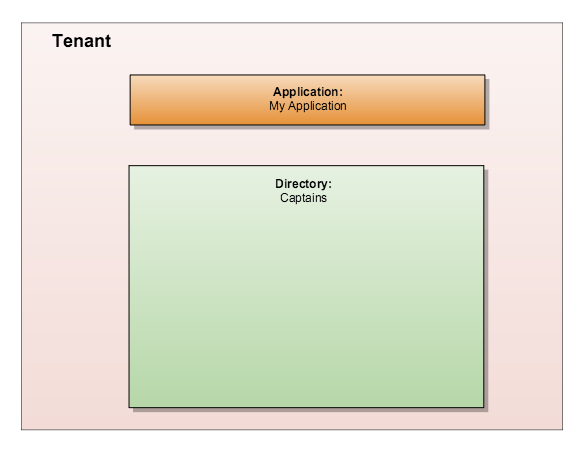
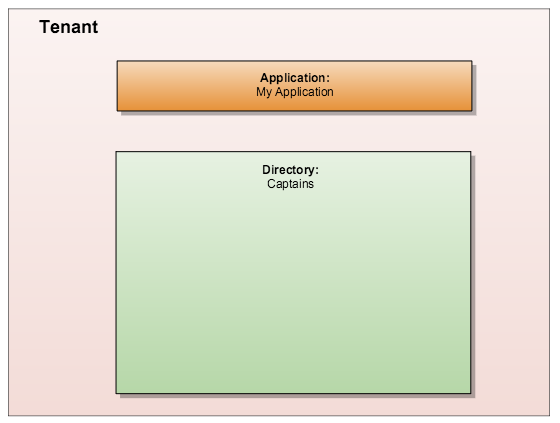
Resized images, also added CSS to add light grey border around all images

Changed region(s): [[0.0, 0.0, 1.0, 1.0], [0.1821, 0.1229, 0.85, 0.3073]]

diff --git a/source/_static/theme_overrides.css b/source/_static/theme_overrides.css
@@ -28,3 +28,7 @@ div#langpicker a {
 .rst-footer-buttons {
     display:none;
 }
+
+img {
+   border:1px solid #D6D2D1;
+}

diff --git a/source/multitenancy.rst b/source/multitenancy.rst
@@ -29,22 +29,6 @@ Tenants are organizations of people who use your application in some shared way.
 
 If your application is offering (1) shared software and hardware infrastructure to (2) client organizations, then you have a multi-tenant application! Now, for privacy and security purposes, it's very important that your application maintain data segmentation between its multiple tenants. At Stormpath, this segmentation is baked-in to everything that we offer.
 
-
-.. todo::
-
-  6.2. Why Use Stormpath for Multi-Tenancy?
-
-  (This might make sense, but I'm not 100% what goes in here without getting super repetitive.)
-
-  This entire chapter will serve as an answer to this question. However, it's good to provide an overview.
-
-  Your multi-tenant application might need any or all of the following:
-
-  - Per-tenant :ref:`authentication flows <multitenancy-auth-to-org>` and :ref:`login pages <multitenancy-routing-users>`.
-  - Social, LDAP, or SAML login available for each tenant
-  - Per-tenant or application-wide password policies and registration emails
-  - User roles customized to each tenant, or even shared across tenants
-
 .. _multitenancy-modeling:
 
 6.2. Modeling Tenants in Stormpath
@@ -84,7 +68,7 @@ Directories are the the top-level Account Store for both Accounts and Groups. Al
 
 .. figure:: images/multitenancy/simple_ERD_TpD.png
   :align: center
-  :scale: 100%
+  :scale: 33%
   :alt: Directory with Organization and Application
 
   *Application + Organization + Directory*
@@ -107,7 +91,7 @@ Groups must always belong to a Directory, but they are otherwise very flexible. 
 
 .. figure:: images/multitenancy/simple_ERD_TpG.png
   :align: center
-  :scale: 100%
+  :scale: 33%
   :alt: Group with Directory, Organization, and Application
 
   *Application + Organization + Directory*
@@ -132,7 +116,7 @@ Your primary consideration when modeling users in Stormpath always begins with t
 
 To help you decide which strategy is best, answer the following questions:
 
-- **Can a user sign up for multiple tenants with the same email address?**
+- **Can a user access multiple tenants with the same credentials?**
 
 - **Will your tenants all have different password strength requirements?**
 
@@ -140,18 +124,12 @@ If the answer to either of these questions is "Yes", then you will want to map e
 
 If the answer to either of them is "No", then you will want to have only one Directory, and map each Organization to its own Group. We will call this the :ref:`"Group per Organization" strategy <multitenancy-gpo>`.
 
-
-
 The reasoning here is very simple: because Stormpath stores certain things on the Directory resource, if you want each of your tenants to be able to customize things that are stored on the Directory level, then each one will need their own Directory!
 
 .. _multitenancy-dpo:
 
 Strategy 1: Directory per Organization
 ^^^^^^^^^^^^^^^^^^^^^^^^^^^^^^^^^^^^^^
-
-.. todo::
-
-  Some of this might be possible with the other strategy too, just needs more work...
 
 This first strategy has, as the name implies, one Directory for every tenant Organization. A few questions to think about this for this strategy:
 
@@ -178,12 +156,12 @@ Here is an example implementation that uses Directories to model tenants. It is 
 
 .. figure:: images/multitenancy/ERD_TpD.png
     :align: center
-    :scale: 100%
+    :scale: 90%
     :alt: Tenant per Directory
 
     *Directory per Organization ERD.*
 
-.. note:
+.. note::
 
   Everything discussed occurs inside the private data space that we refer to as your Stormpath Tenant, which is represented by the Tenant resource but does not play any part in multi-tenancy.
 
@@ -198,10 +176,6 @@ The scenario demonstrates a multi-tenant userbase with two tenants, each of whic
 
 Strategy 2: Group per Organization
 ^^^^^^^^^^^^^^^^^^^^^^^^^^^^^^^^^^
-
-.. todo::
-
-  Some of this might be possible with the other strategy too, just needs more work...
 
 The other multi-tenancy option is to have a single Directory under which each of your application's tenants has their own Group. A few questions to think about this for this strategy:
 
@@ -226,7 +200,7 @@ Below we have an example of an implementation that uses Groups to model tenants.
 
 .. figure:: images/multitenancy/ERD_TpG.png
   :align: center
-  :scale: 100%
+  :scale: 90%
   :alt: Tenant per Group
 
   *Tenants as Groups ERD*
